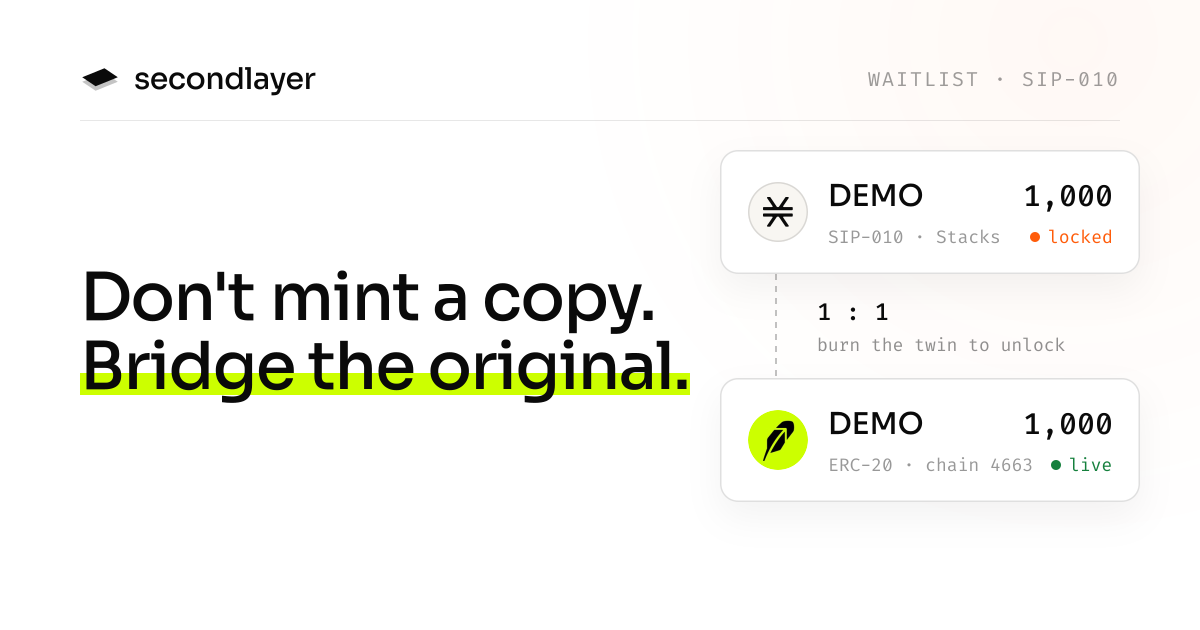
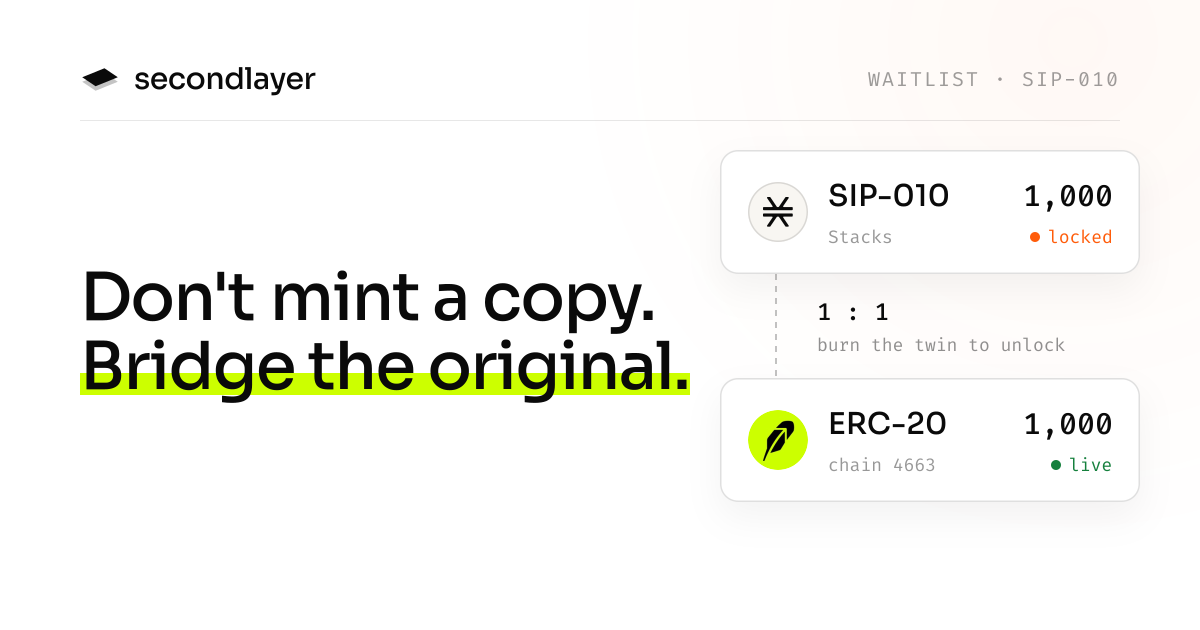
feat(web): name the twin tokens by standard

diff --git a/apps/web/src/app/robinhood/page.tsx b/apps/web/src/app/robinhood/page.tsx
@@ -213,18 +213,18 @@ export default function RobinhoodPage() {
 					</div>
 					<figure
 						className="rh-twins"
-						aria-label="Two token cards: 1,000 DEMO locked on Stacks as a SIP-010, and its twin, 1,000 DEMO live on Robinhood Chain as an ERC-20, linked one to one"
+						aria-label="Two token cards: 1,000 of a SIP-010 token locked on Stacks, and its twin, 1,000 of an ERC-20 live on Robinhood Chain, linked one to one"
 					>
 						<div className="rh-tok">
 							<span className="rh-coin rh-coin-stacks">
 								<StacksSymbol size={18} />
 							</span>
-							<span className="rh-tok-name">DEMO</span>
+							<span className="rh-tok-name">SIP-010</span>
 							<span className="rh-tok-amt">
 								1,000
 								<small className="rh-state is-locked">locked</small>
 							</span>
-							<span className="rh-tok-meta">SIP-010 · Stacks</span>
+							<span className="rh-tok-meta">Stacks</span>
 						</div>
 						<div className="rh-tok-link">
 							<span className="rh-tok-rail" />
@@ -244,12 +244,12 @@ export default function RobinhoodPage() {
 								width={36}
 								height={36}
 							/>
-							<span className="rh-tok-name">DEMO</span>
+							<span className="rh-tok-name">ERC-20</span>
 							<span className="rh-tok-amt">
 								1,000
 								<small className="rh-state is-live">live</small>
 							</span>
-							<span className="rh-tok-meta">ERC-20 · chain 4663</span>
+							<span className="rh-tok-meta">chain 4663</span>
 						</div>
 					</figure>
 				</section>

diff --git a/apps/web/scripts/generate-og.tsx b/apps/web/scripts/generate-og.tsx
@@ -255,11 +255,13 @@ const NEON = "#ccff00"; // Robin Neon, headline highlight only
 
 function TwinToken({
 	coin,
+	name,
 	meta,
 	state,
 	stateColor,
 }: {
 	coin: React.ReactNode;
+	name: string;
 	meta: string;
 	state: string;
 	stateColor: string;
@@ -297,7 +299,7 @@ function TwinToken({
 							color: INK,
 						}}
 					>
-						DEMO
+						{name}
 					</span>
 					<span
 						style={{
@@ -393,7 +395,8 @@ function ArtRobinhood() {
 						</svg>
 					</div>
 				}
-				meta="SIP-010 · Stacks"
+				name="SIP-010"
+				meta="Stacks"
 				state="locked"
 				stateColor={ACCENT}
 			/>
@@ -447,7 +450,8 @@ function ArtRobinhood() {
 						alt=""
 					/>
 				}
-				meta="ERC-20 · chain 4663"
+				name="ERC-20"
+				meta="chain 4663"
 				state="live"
 				stateColor="#15803d"
 			/>
